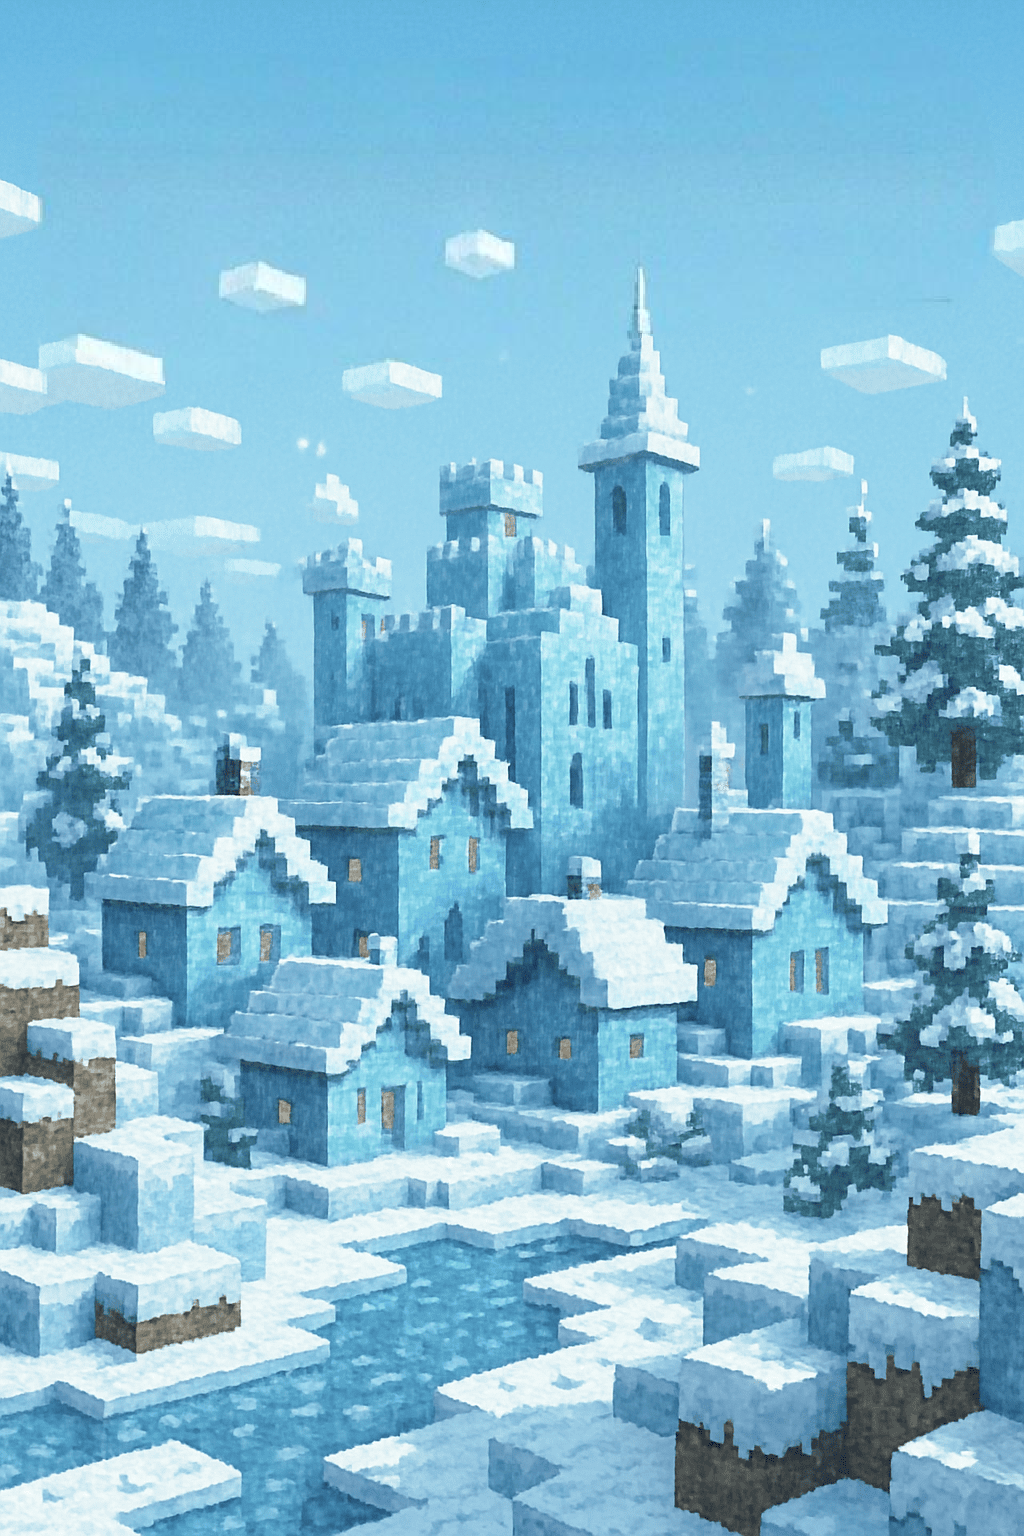
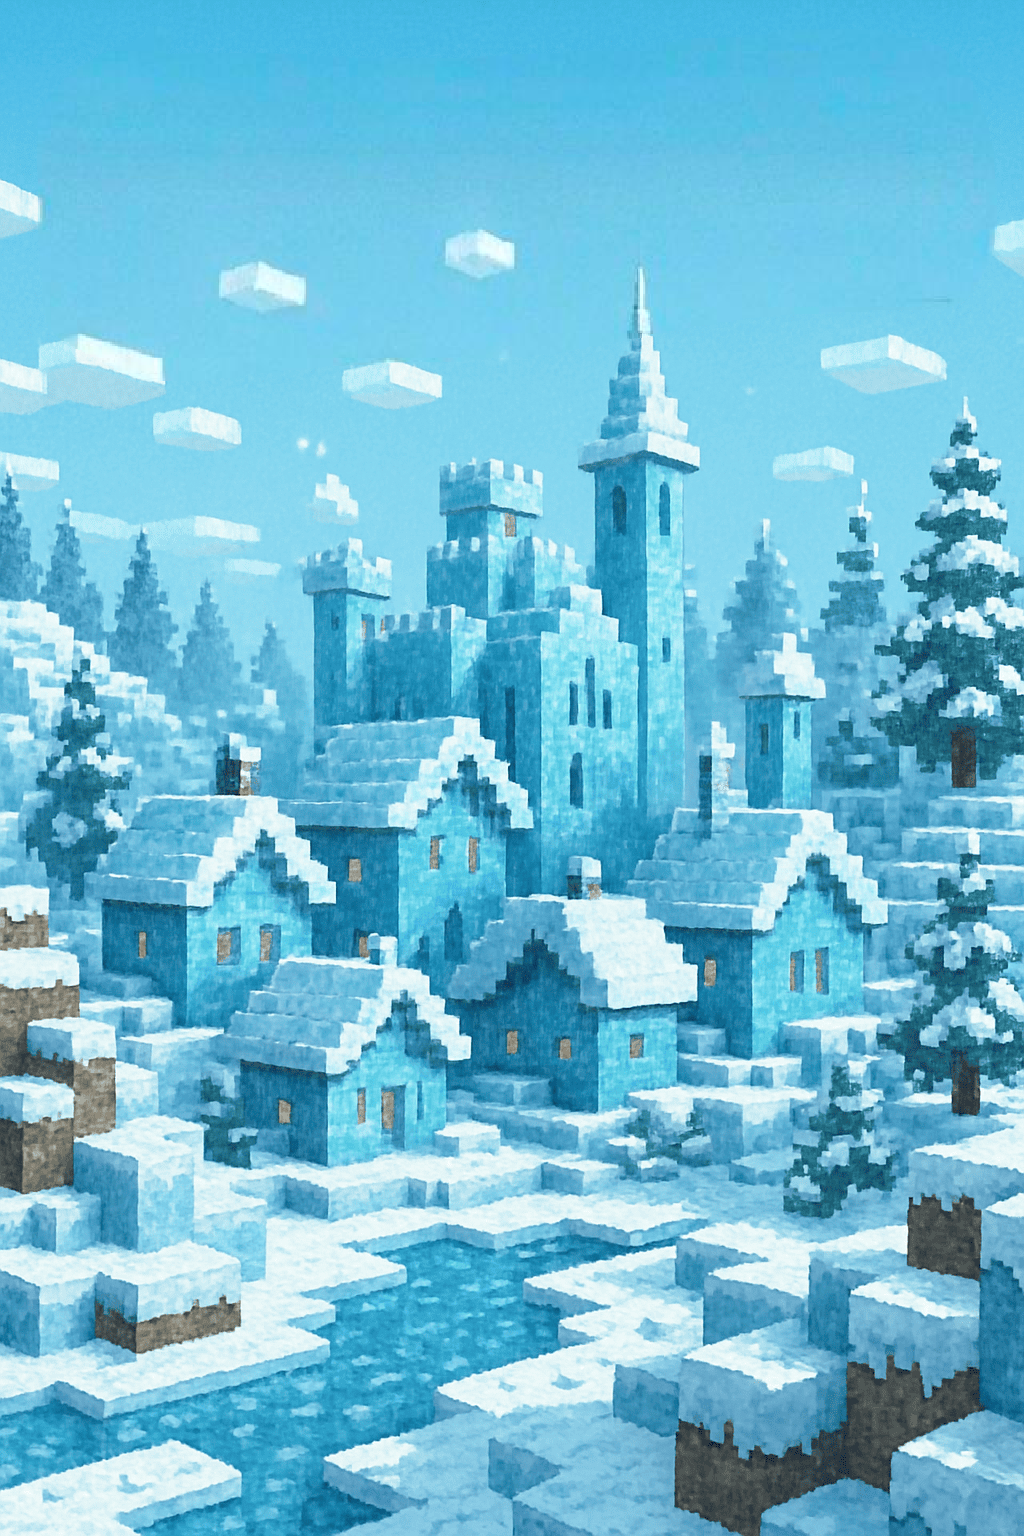
feat(utils): optimize image size

diff --git a/scripts/utils/optimize-images.ts b/scripts/utils/optimize-images.ts
@@ -1,0 +1,101 @@
+import fs from 'node:fs/promises'
+import path from 'node:path'
+import sharp from 'sharp'
+
+const IMAGE_EXTS = new Set(['.png', '.jpg', '.jpeg', '.webp'])
+
+async function walk(dir: string): Promise<string[]> {
+  const entries = await fs.readdir(dir, { withFileTypes: true })
+  const files: string[] = []
+
+  for (const entry of entries) {
+    const fullPath = path.join(dir, entry.name)
+    if (entry.isDirectory()) {
+      files.push(...await walk(fullPath))
+      continue
+    }
+
+    const ext = path.extname(entry.name).toLowerCase()
+    if (IMAGE_EXTS.has(ext)) {
+      files.push(fullPath)
+    }
+  }
+
+  return files
+}
+
+function formatSize(bytes: number): string {
+  if (bytes < 1024) return `${bytes} B`
+  if (bytes < 1024 * 1024) return `${(bytes / 1024).toFixed(1)} KB`
+  return `${(bytes / (1024 * 1024)).toFixed(2)} MB`
+}
+
+async function optimizeImage(filePath: string): Promise<void> {
+  const ext = path.extname(filePath).toLowerCase()
+  const input = await fs.readFile(filePath)
+  const before = input.byteLength
+
+  let output: Buffer
+  if (ext === '.png') {
+    output = await sharp(input)
+      .png({ compressionLevel: 9 })
+      .toBuffer()
+  } else if (ext === '.webp') {
+    output = await sharp(input)
+      .webp({ quality: 75 })
+      .toBuffer()
+  } else {
+    output = await sharp(input)
+      .jpeg({ quality: 75, mozjpeg: true })
+      .toBuffer()
+  }
+
+  if (output.byteLength < before) {
+    await fs.writeFile(filePath, output)
+    const saved = before - output.byteLength
+    console.log(`Optimized ${filePath}: ${formatSize(before)} -> ${formatSize(output.byteLength)} (saved ${formatSize(saved)})`)
+  } else {
+    console.log(`Skipped ${filePath}: ${formatSize(before)} (no savings)`) 
+  }
+}
+
+async function main(): Promise<void> {
+  if (process.env.SKIP_IMAGE_OPT === '1') {
+    console.log('Image optimization skipped (SKIP_IMAGE_OPT=1).')
+    return
+  }
+
+  const root = process.cwd()
+  const targetDirs = [path.join(root, 'assets')]
+
+  const existingDirs = []
+  for (const dir of targetDirs) {
+    try {
+      const stat = await fs.stat(dir)
+      if (stat.isDirectory()) existingDirs.push(dir)
+    } catch {
+      // Ignore missing directory.
+    }
+  }
+
+  if (existingDirs.length === 0) {
+    console.log('No image directories found to optimize.')
+    return
+  }
+
+  const files = (await Promise.all(existingDirs.map(walk))).flat()
+  if (files.length === 0) {
+    console.log('No images found to optimize.')
+    return
+  }
+
+  console.log(`Optimizing ${files.length} image(s)...`)
+  for (const filePath of files) {
+    await optimizeImage(filePath)
+  }
+}
+
+main().catch((error) => {
+  console.error('Image optimization failed:', error)
+  process.exit(1)
+})

diff --git a/app/login/page.tsx b/app/login/page.tsx
@@ -40,7 +40,8 @@ export default function LoginPage() {
         src={loginBackground}
         alt="登录背景"
         fill
-        priority
+        loading="lazy"
+        fetchPriority="low"
         className="object-cover"
       />
       <div className="absolute inset-0 bg-black/35" />
@@ -50,7 +51,8 @@ export default function LoginPage() {
           <Image
             src={loginTitle}
             alt="IceTown"
-            priority
+            loading="lazy"
+            fetchPriority="low"
             style={{ width: '100%', height: 'auto', maxWidth: 360, margin: '0 auto' }}
           />
         </div>
